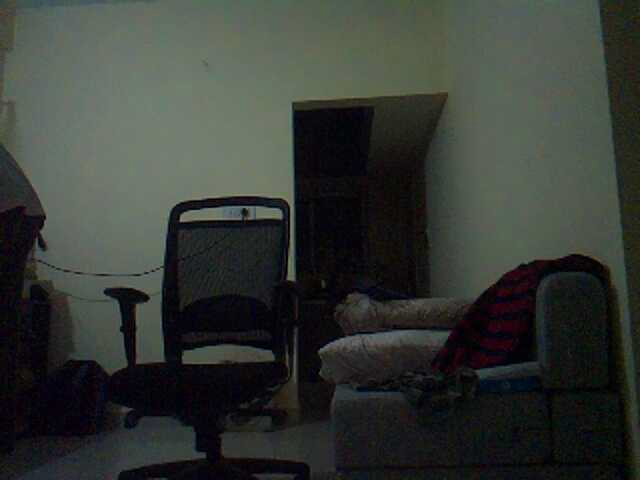
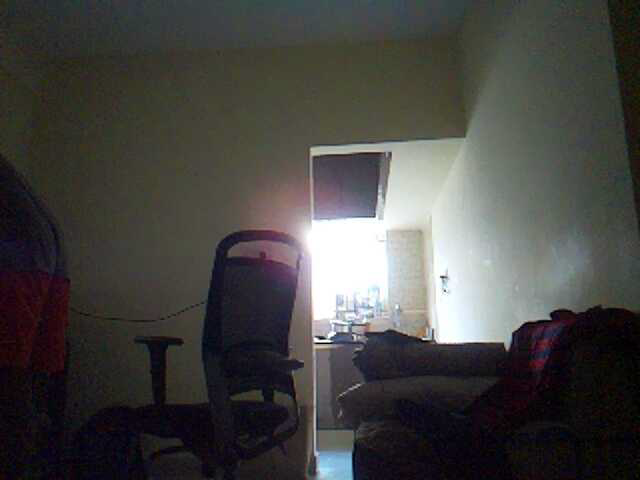
ADded Console Log!

diff --git a/motion_detection.py b/motion_detection.py
@@ -3,8 +3,12 @@
 import os
 import sys
 import cv2
+import logging
+from datetime import datetime
 
 IP_ADDRESS = 'cam.sandy.plus'
+SCREEN_WIDTH = 640 # Can be automated
+SCREEN_HEIGHT = 480 # Can be automated
 
 
 
@@ -14,10 +18,11 @@ if __name__ == '__main__':
     
     image = video.read()[1]
     cv2.imwrite(r"images/background.png", image)
-    background = cv2.imread(r"images/background_night.png") #CHange this back to 'background.png' for auto-initialization
+    background = cv2.imread(r"images/background_day.png") #CHange this back to 'background.png' for auto-initialization
     background = cv2.cvtColor(background,cv2.COLOR_BGR2GRAY)
     background = cv2.GaussianBlur(background,(21,21),0)
     
+    timer = datetime.now().second + 5 # Giving 5 second headstart before logging warnings
     while True:
         status, frame = video.read()
         gray = cv2.cvtColor(frame,cv2.COLOR_BGR2GRAY)
@@ -31,11 +36,33 @@ if __name__ == '__main__':
         cnts,res = cv2.findContours(thresh.copy(),
                                 cv2.RETR_EXTERNAL, cv2.CHAIN_APPROX_SIMPLE)
         
+        i = 0
         for contour in cnts:
             if cv2.contourArea(contour) < 10000 :
                  continue
             (x,y,w,h) = cv2.boundingRect(contour)
             cv2.rectangle(frame,(x,y),(x+w,y+h),(0,255,0), 3)
+            
+            if (x+w)/2 < SCREEN_WIDTH/3:
+                hori_pos = "Left"
+            elif (x+w)/2 > 2*SCREEN_WIDTH/3:
+                hori_pos = "Right"
+            else:
+                hori_pos = "Center"
+            if (y+h)/2 < SCREEN_HEIGHT/3:
+                vert_pos = "Bottom"
+            elif (y+h)/2 > 2*SCREEN_HEIGHT/3:
+                vert_pos = "Top"
+            else:
+                vert_pos = "Middle"
+            
+            if datetime.now().second == timer:
+                logging.warning("[Time:"+datetime.now().strftime("%H:%M:%S")+"]Object #"+str(i+1)+" detected: "+vert_pos+"-"+hori_pos+" Wdt: "+str(w)+"px Hgt "+str(h)+"px.")
+            if timer > 60:
+                timer = 0
+            else:
+                timer += 1
+            i+=1
             
         cv2.imshow("All Contours",frame)
         
